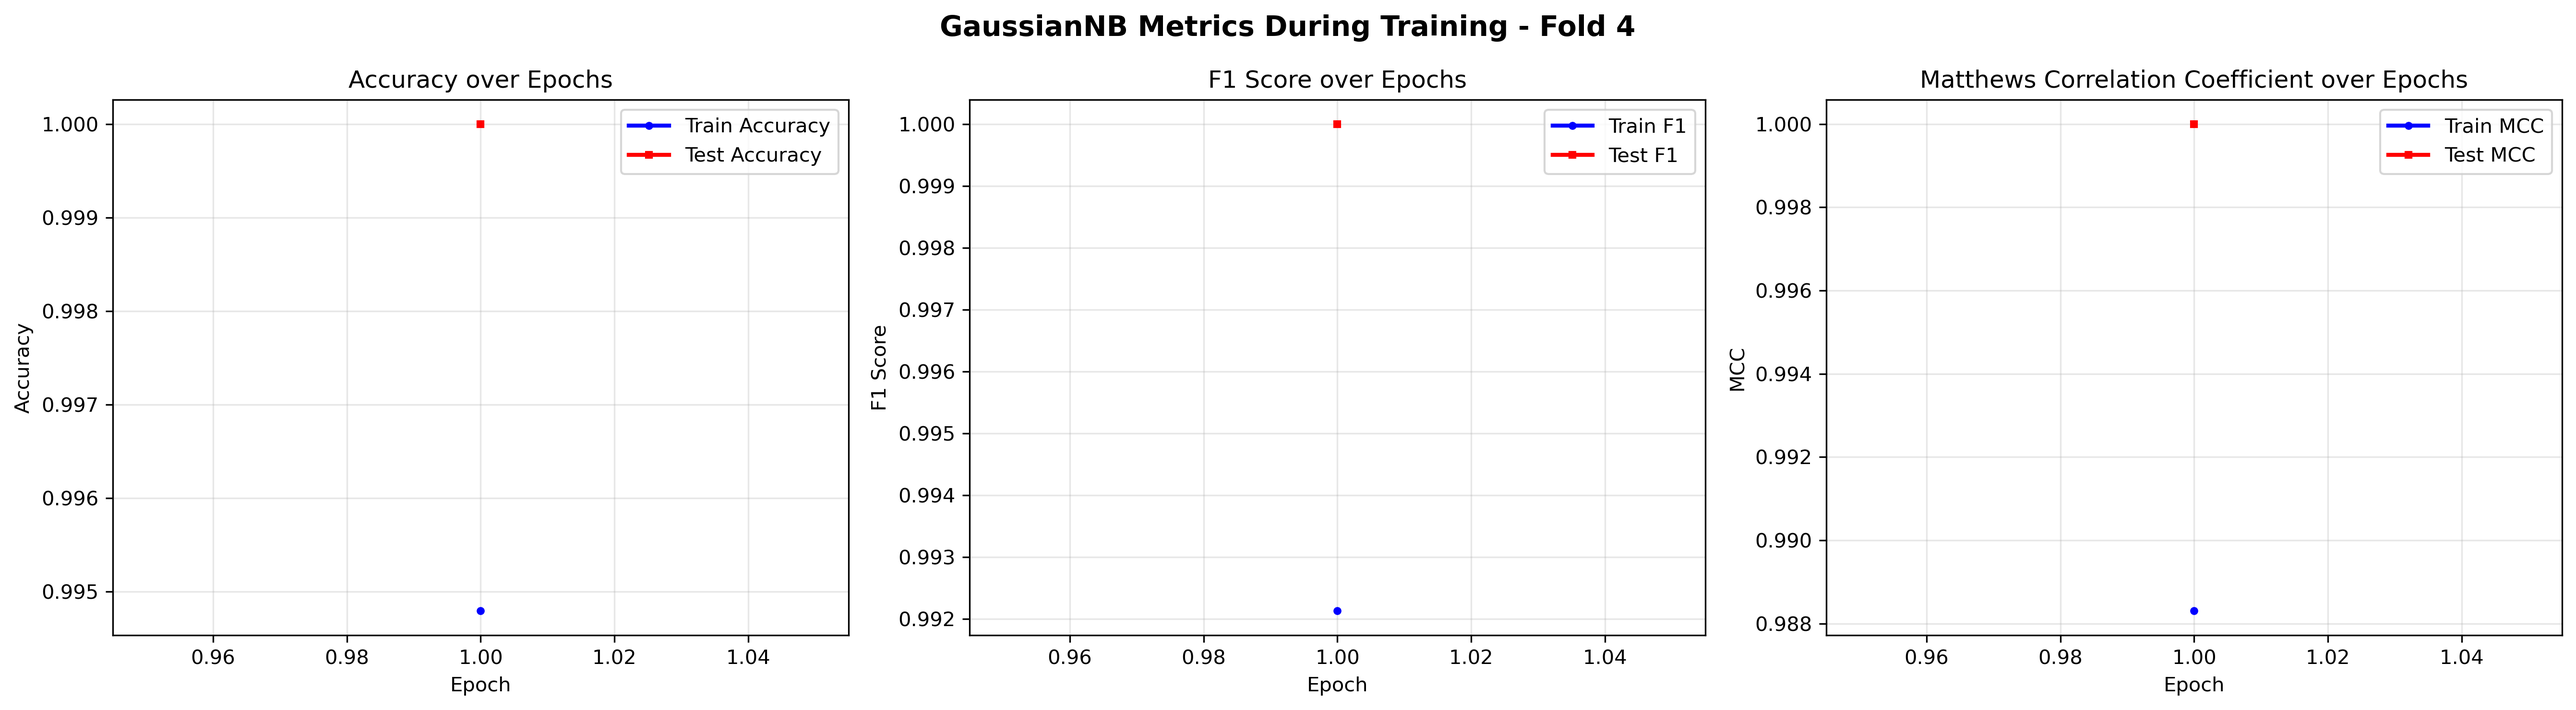
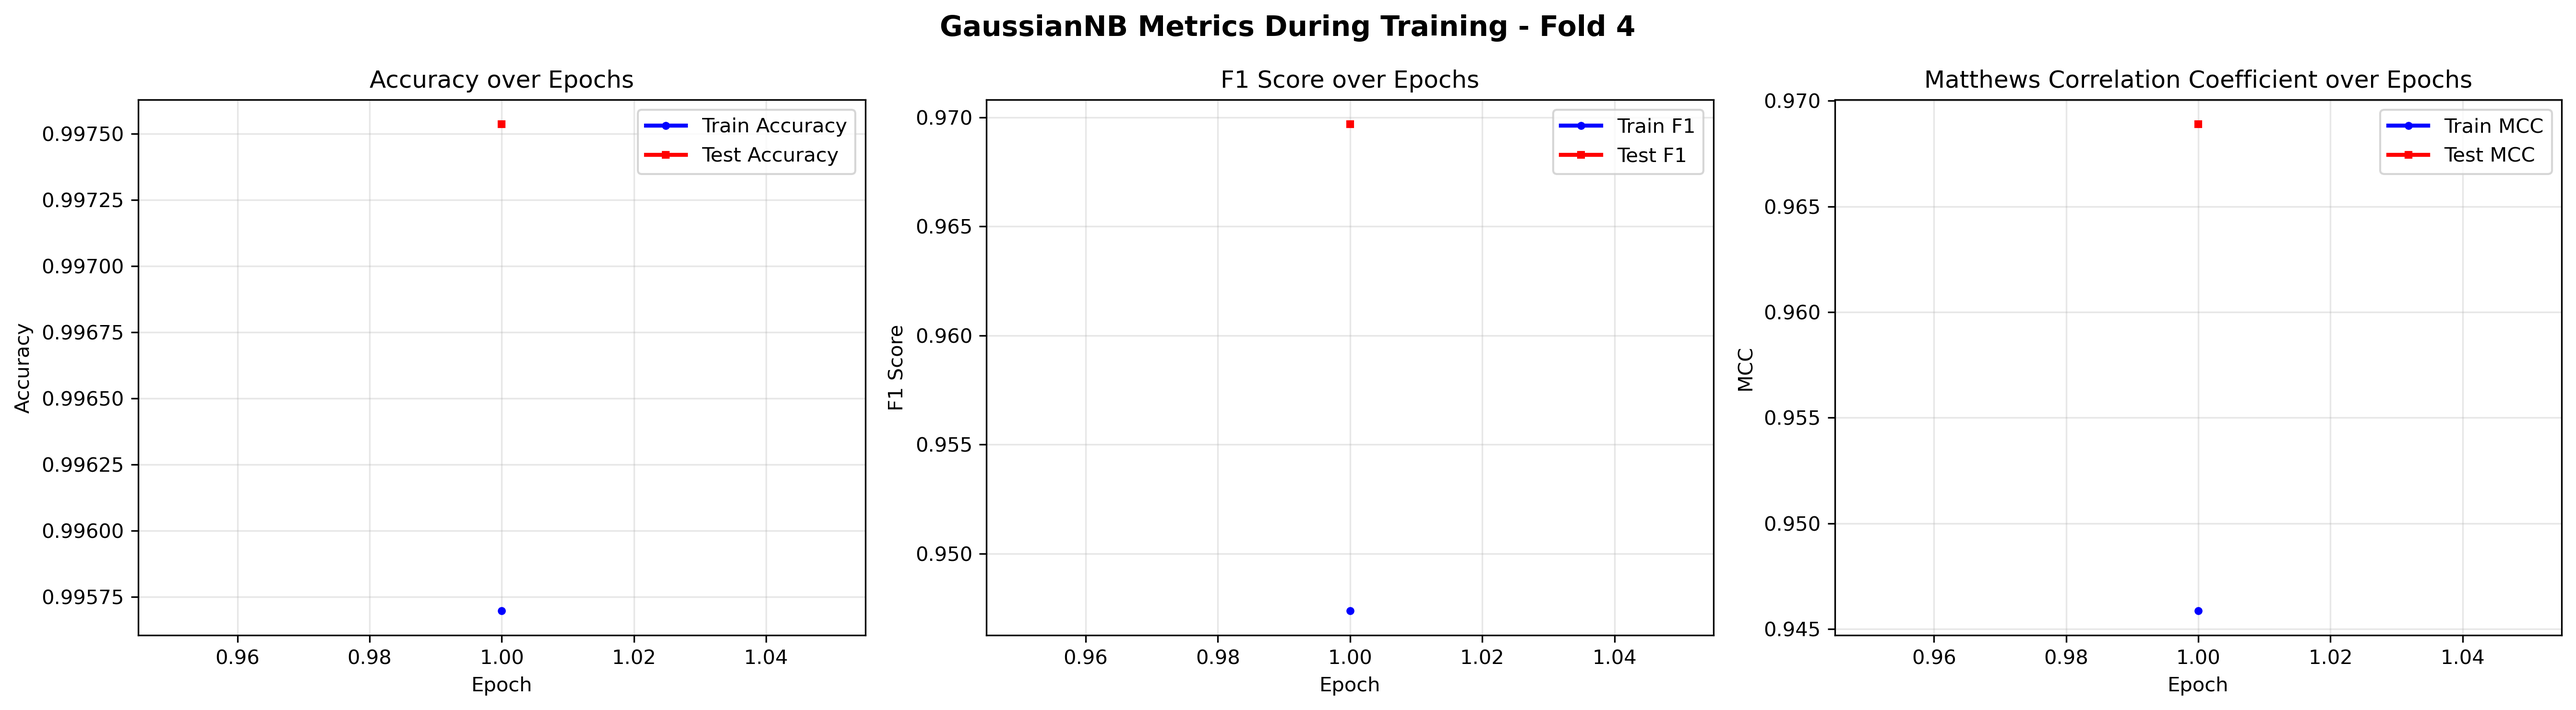
pdbs are now split by date
to be used later as a train/test dataset

diff --git a/08b-filter-pdb-by-date.py b/08b-filter-pdb-by-date.py
@@ -1,7 +1,7 @@
 import requests
 import csv
 import time
-
+import pandas as pd
 SEARCH_URL = "https://search.rcsb.org/rcsbsearch/v2/query"
 DATA_URL = "https://data.rcsb.org/rest/v1/core/entry/"
 
@@ -135,5 +135,102 @@ def filter_csv_by_date(input_csv,dates_csv,output_csv_pre,output_csv_after, cuto
                     pre_writer.writerow(row)
                 else:
                     after_writer.writerow(row)
+def filter_pandas_dataframe_by_date(df, dates_csv, cutoff_date):
+      # Load cutoff date
+    cutoff_date = pd.to_datetime(cutoff_date)
+
+    # Load release dates into a dictionary
+    release_dates = {}
+    with open(dates_csv, "r") as f:
+        reader = csv.DictReader(f)
+        for row in reader:
+            release_dates[row["pdbid"]] = pd.to_datetime(row["release_date"])
+
+    #creating two dfs identical to the df, but empty, with rows left to be filled. named pre_df and after_df
+    pre_df = df.copy().iloc[0:0]
+    after_df = df.copy().iloc[0:0]
+    pre_rows = []
+    after_rows = []
+    lost_ids = []
+    # the dataframe's index is named "source_file" with values like "HL_1G1X_001"
+    for index, row in df.iterrows():
+        # extracting the pdbid as the second component when split by underscores.
+        # e.g. "HL_1G1X_001" -> pdbid "1G1X".
+        src = str(index)
+        parts = src.split("_")
+        if len(parts) >= 2:
+            pdbid = parts[1]
+            #some entries have a two part prefix, like single_strands_2il9_0003
+            if len(parts) == 4:
+                pdbid = parts[2]
+            
+            pdbid_upper = pdbid.upper()
+            pdbid_lower = pdbid.lower()
+            if pdbid in release_dates:
+                if release_dates[pdbid] < cutoff_date:
+                    pre_rows.append(row)
+                else:
+                    after_rows.append(row)
+            elif pdbid_upper in release_dates:
+                if release_dates[pdbid_upper] < cutoff_date:
+                    pre_rows.append(row)
+                else:
+                    after_rows.append(row)
+            elif pdbid_lower in release_dates:
+                if release_dates[pdbid_lower] < cutoff_date:
+                    pre_rows.append(row)
+                else:
+                    after_rows.append(row)
+            else:
+                lost_ids.append(pdbid)
+    pre_df = pd.concat([pre_df, pd.DataFrame(pre_rows)], ignore_index=True)
+    after_df = pd.concat([after_df, pd.DataFrame(after_rows)], ignore_index=True)
+    print(f"Total entries in dataframe: {len(df)}")
+    print(f"Entries before cutoff date: {len(pre_df)}")
+    print(f"Entries before cutoff date: {len(after_df)}")
+    print(f"Lost IDs (not found in release dates): {lost_ids}")
+    return pre_df, after_df
+
+def filter_pandas_dataframe_by_date_old(df, dates_csv, cutoff_date):
+
+    # the dataframe's index is named "source_file" with values like "HL_1G1X_001"
+    # extracting the pdbid as the second component when split by underscores.
+    # e.g. "HL_1G1X_001" -> pdbid "1G1X".
+
+    # Load cutoff date
+    cutoff_date = pd.to_datetime(cutoff_date)
+
+    # Load release dates into a dictionary
+    release_dates = {}
+    with open(dates_csv, "r") as f:
+        reader = csv.DictReader(f)
+        for row in reader:
+            release_dates[row["pdbid"]] = pd.to_datetime(row["release_date"])
+
+    # extract pdbid from index (source_file)
+    def extract_pdbid(src: str) -> str:
+        # assume the format structure_pdbid_other; guard against unexpected
+        parts = src.split("_")
+        if len(parts) >= 2:
+            return parts[1]
+        return ""  # fallback empty
+
+    df = df.copy()
+    df["pdbid"] = df.index.astype(str).map(extract_pdbid)
+
+    # Add release date to dataframe and filter
+    df["release_date"] = df["pdbid"].map(release_dates)
+    print(f"Total entries in dataframe: {len(df)}")
+    pre_df = df[df["release_date"] < cutoff_date].copy()
+    print(f"Entries before cutoff date: {len(pre_df)}")
+    after_df = df[df["release_date"] >= cutoff_date].copy()
+    print(f"Entries before cutoff date: {len(after_df)}")
+
+    # drop the temporary pdbid column from all frames
+    for frame in (df, pre_df, after_df):
+        if "pdbid" in frame.columns:
+            frame.drop(columns=["pdbid"], inplace=True)
+
+    return pre_df, after_df
 if __name__ == "__main__":
     download_dates_and_save_csv()

diff --git a/08-gnn.py b/08-gnn.py
@@ -7,6 +7,8 @@ import csv
 from itertools import combinations
 import json, os
 
+filter_script = __import__('08b-filter-pdb-by-date')
+
 from sklearn import preprocessing 
 from sklearn.model_selection import StratifiedKFold, train_test_split
 from sklearn.metrics import confusion_matrix
@@ -731,20 +733,36 @@ stat, p_value = shapiro(df)
 print(f'Shapiro-Wilk Test: Statistic={stat}, p-value={p_value}')
 
 #REBALANCING THE DATASET BY REDUCING THE NUMBER OF NEGATIVE SAMPLES ('gnra' = false)
-num_positive = df[df['gnra'] == True].shape[0]
-negatives = df[df['gnra'] == False]
-negatives_downsampled = negatives.sample(n=num_positive*2, random_state=42)
-df = pd.concat([df[df['gnra'] == True], negatives_downsampled])
+# num_positive = df[df['gnra'] == True].shape[0]
+# negatives = df[df['gnra'] == False]
+# negatives_downsampled = negatives.sample(n=num_positive*2, random_state=42)
+# df = pd.concat([df[df['gnra'] == True], negatives_downsampled])
+
+
+
 
 # data_full = data_full.reset_index(drop=True)   #base dataframe with nucleotides coords and class
 # y = data_full['is_positive']  #labels
+
+
+#DIVIDING DATASET BY DATES
+pre,post = filter_script.filter_pandas_dataframe_by_date(df,'rna_pdb_release_dates.csv','2025-01-20T00:00:00+0000')
+print(f"number of rows in df: {df.shape[0]}")
+print("============================================ DF PRE selected date============================================")
+print(pre)
+print("============================================ DF POST selected date ============================================")
+print(post)
+print("============================================ END ============================================")
 y = df['gnra']
+y_pre = pre['gnra']
+y_post = post['gnra']
 data_full.iloc[180]
 
 
 #remove the 'gnra' column from df to get only features
 df = df.drop(columns=['gnra'])
-
+pre = pre.drop(columns=['gnra'])
+post = post.drop(columns=['gnra'])
 #use k-fold cross validation
 # K-fold cross-validation setup
 n_splits = 5
@@ -760,6 +778,8 @@ cv_results = {
 
 # Reset indices to be safe
 df = df.reset_index(drop=True)
+pre = pre.reset_index(drop=True)
+post = post.reset_index(drop=True)
 y = y.reset_index(drop=True)
 
 for fold, (train_idx, test_idx) in enumerate(skf.split(df, y)):
